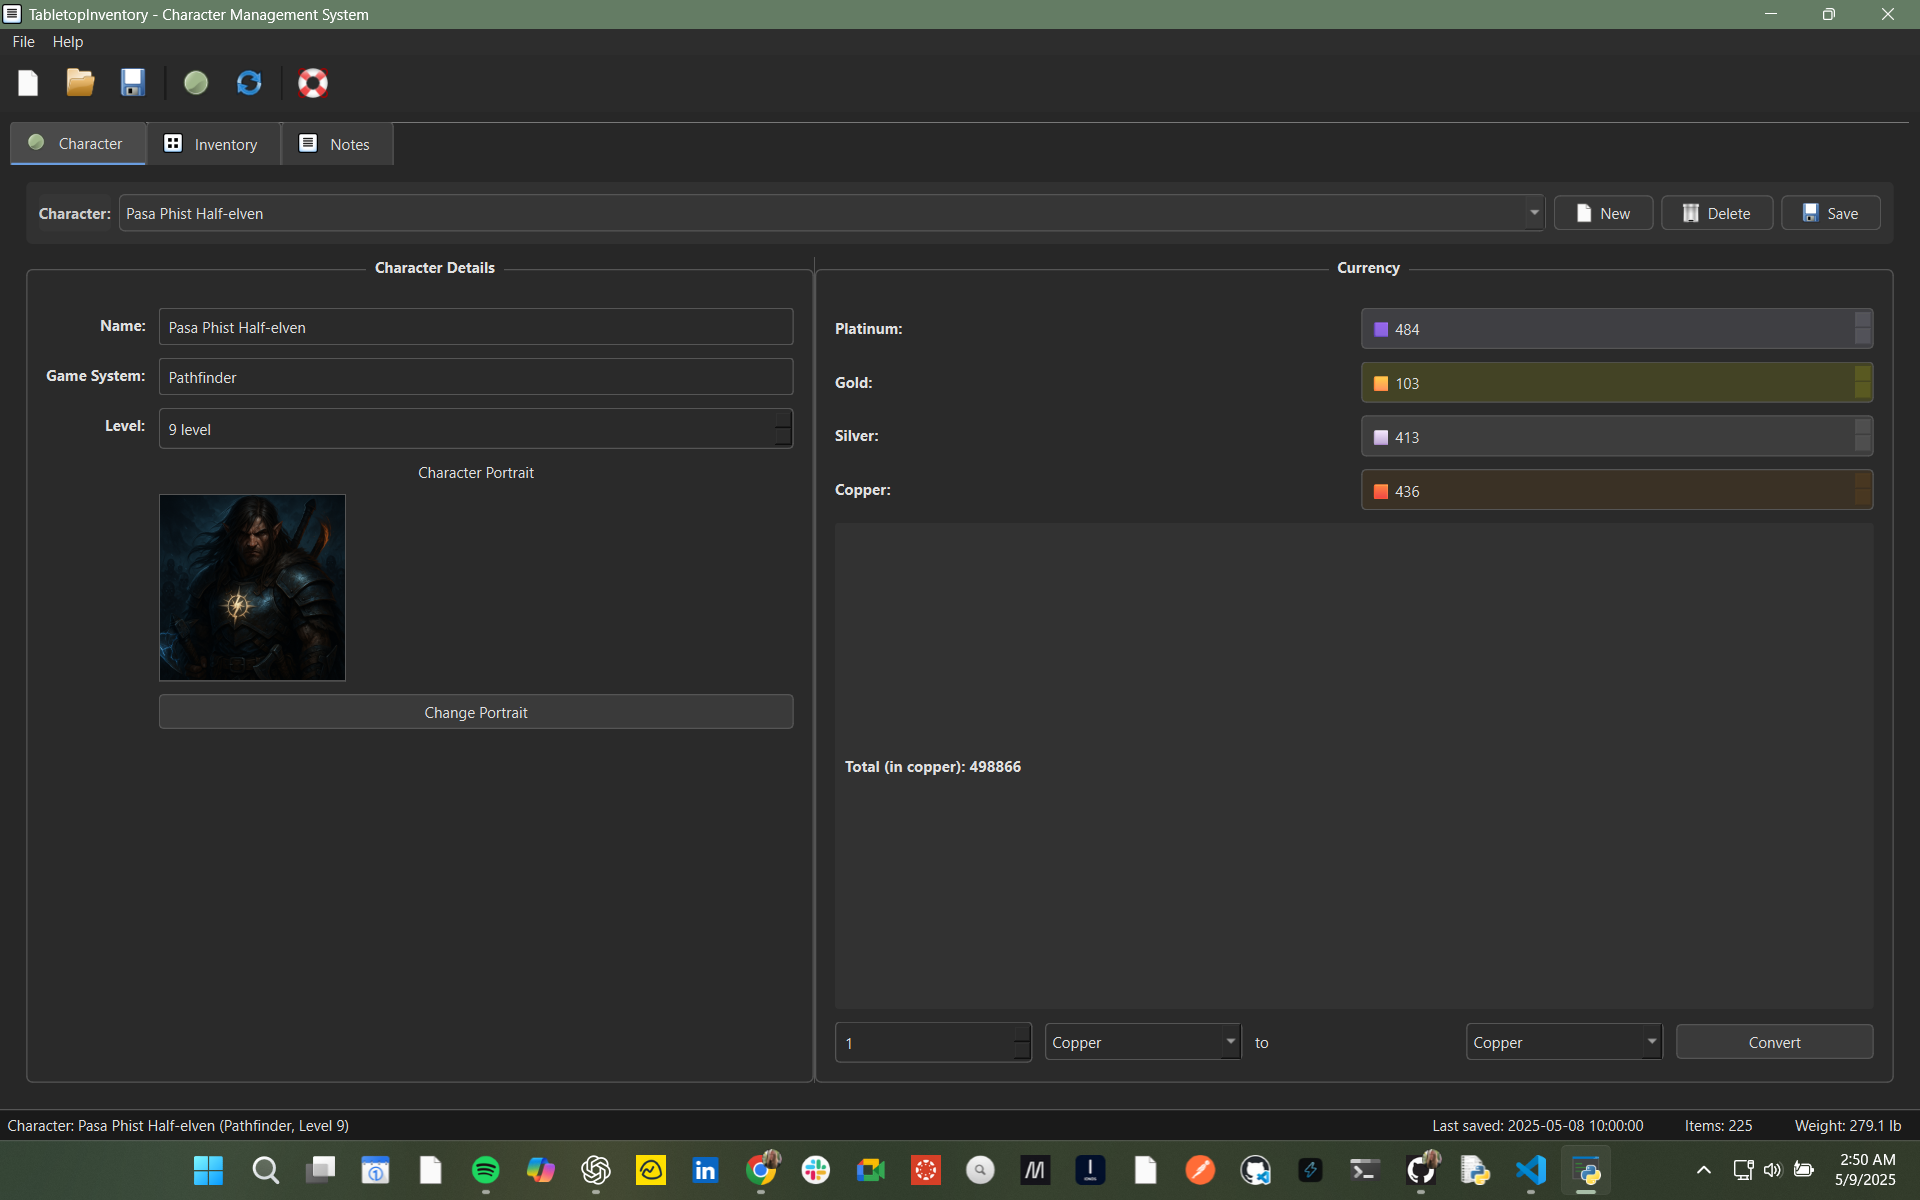
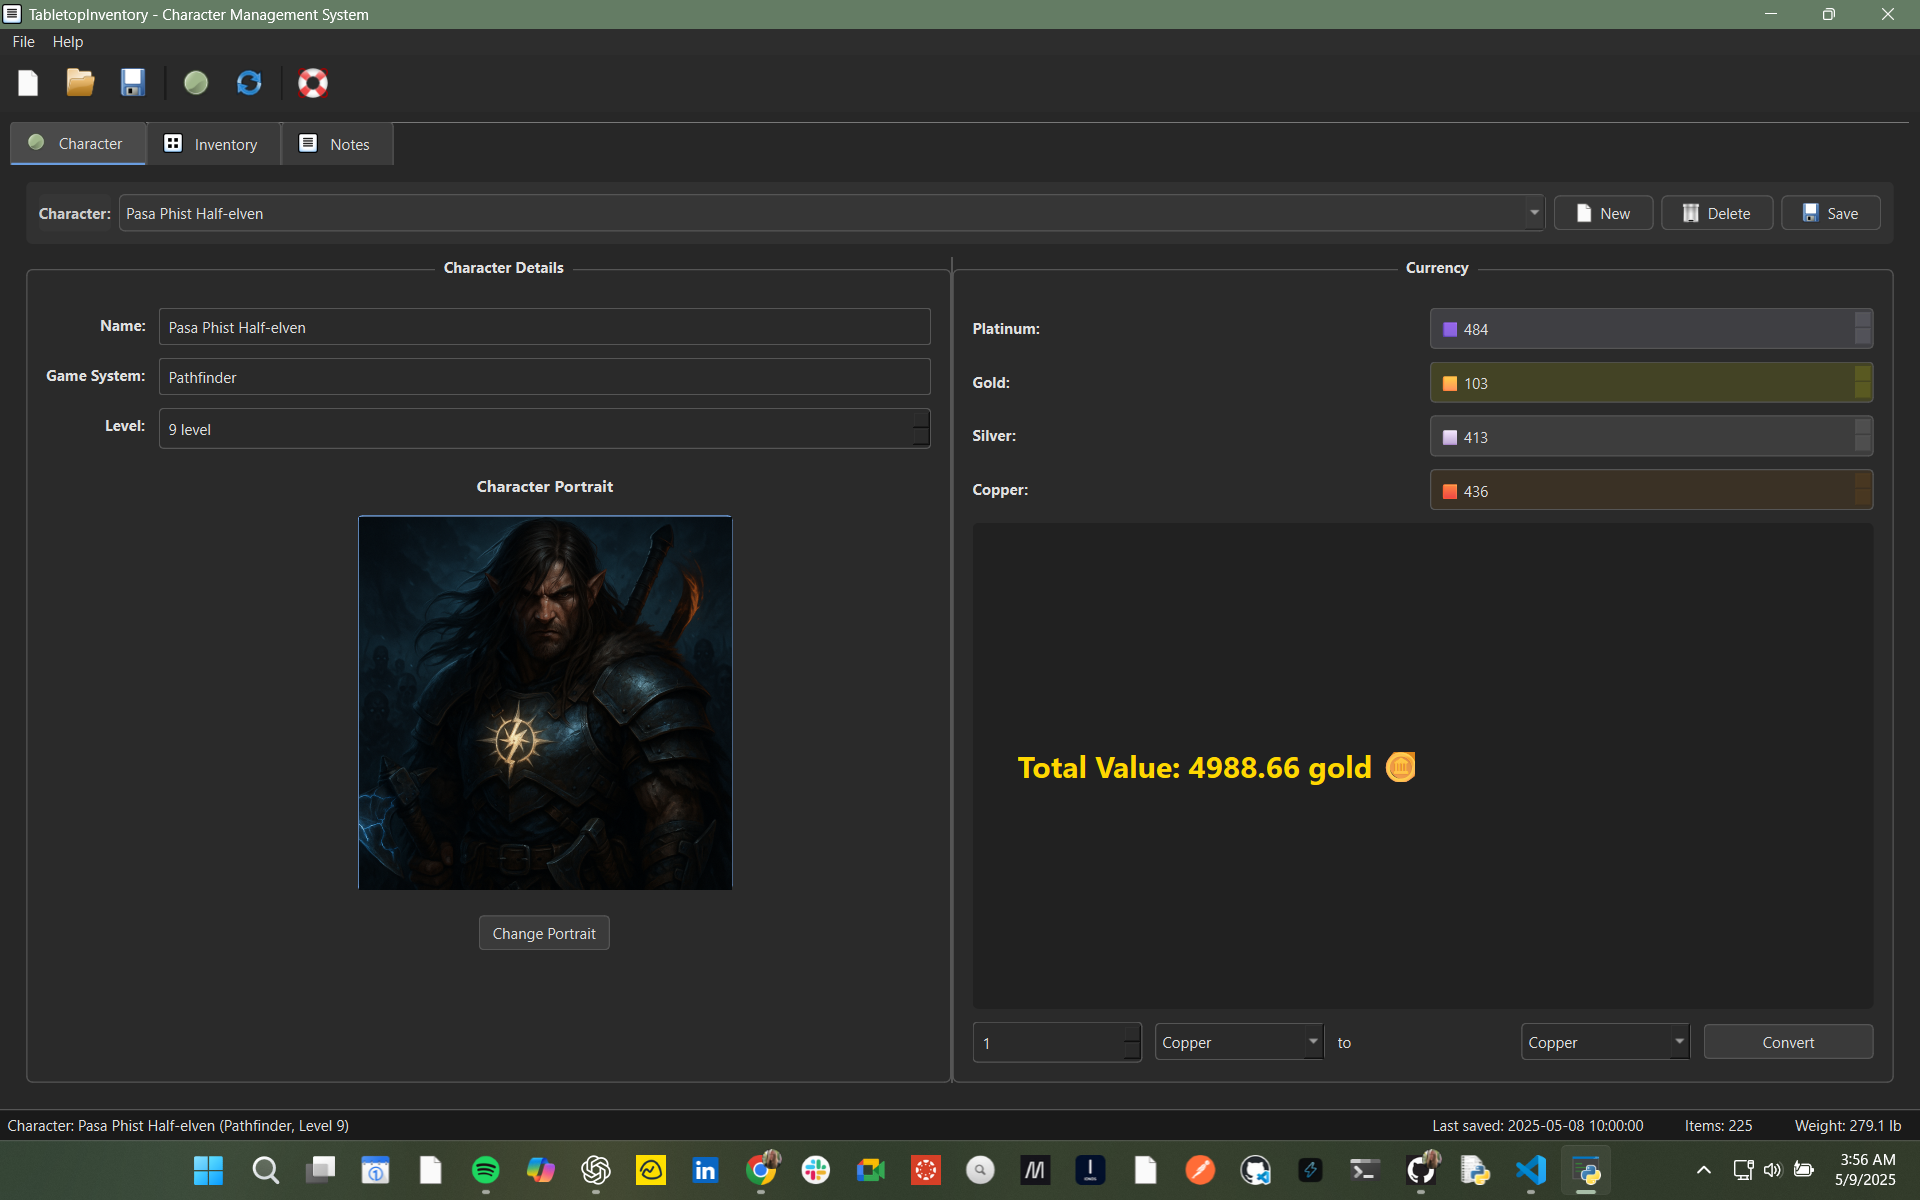
refactor currency display and update logic for better clarity and compatibility

diff --git a/tabletop_inventory.py b/tabletop_inventory.py
@@ -723,8 +723,7 @@ class MainWindow(QMainWindow):
         self.copper_spin.setRange(0, 999999)
         self.copper_spin.setStyleSheet("padding: 5px; background: rgba(180, 100, 0, 30);")
         self.copper_spin.setPrefix("🟧 ")
-        
-        # Add widgets to currency layout
+          # Add widgets to currency layout
         currency_layout.addWidget(QLabel("<b>Platinum:</b>"), 0, 0)
         currency_layout.addWidget(self.platinum_spin, 0, 1)
         currency_layout.addWidget(QLabel("<b>Gold:</b>"), 1, 0)
@@ -733,11 +732,12 @@ class MainWindow(QMainWindow):
         currency_layout.addWidget(self.silver_spin, 2, 1)
         currency_layout.addWidget(QLabel("<b>Copper:</b>"), 3, 0)
         currency_layout.addWidget(self.copper_spin, 3, 1)
-          # Add total currency value display with treasure background image
-        self.total_currency_label = QLabel("Total Coins: 0 🪙")
-        # Get the path to the Treasure.png image
+          # Add total currency value display with treasure background image        self.total_currency_label = QLabel("Total Value: 0.00 gold 🪙")
+        # Get the path to the Treasure.png image - ensure proper Windows path formatting
         treasure_img_path = os.path.join(os.path.dirname(os.path.abspath(__file__)), 'assets', 'img', 'Treasure.png')
-        # Set background image and increase font size for the total label
+        treasure_img_path = treasure_img_path.replace('\\', '/')  # Convert backslashes to forward slashes for CSS
+        
+        # Set background color and font size for the total label - removed unsupported properties
         self.total_currency_label.setStyleSheet(f"""
             font-weight: bold; 
             font-size: 18pt; 
@@ -745,13 +745,21 @@ class MainWindow(QMainWindow):
             color: #FFD700;
             background-color: rgba(30, 30, 30, 180); 
             border-radius: 5px;
-            background-image: url({treasure_img_path});
-            background-position: center right;
-            background-repeat: no-repeat;
-            background-origin: content;
-            background-size: contain;
-            text-shadow: 2px 2px 3px rgba(0, 0, 0, 0.7);
         """)
+        
+        # Use an icon instead of background image for better compatibility
+        treasure_icon = QPixmap(treasure_img_path)
+        if not treasure_icon.isNull():
+            # Create a layout for the label to include the icon
+            label_layout = QHBoxLayout(self.total_currency_label)
+            label_layout.setContentsMargins(20, 0, 20, 0)
+            label_layout.addStretch()
+            
+            # Add icon in a separate label
+            icon_label = QLabel()
+            icon_label.setPixmap(treasure_icon.scaled(50, 50, Qt.AspectRatioMode.KeepAspectRatio))
+            label_layout.addWidget(icon_label)
+        
         self.total_currency_label.setMinimumHeight(60)
         self.total_currency_label.setAlignment(Qt.AlignmentFlag.AlignVCenter | Qt.AlignmentFlag.AlignLeft)
         self.total_currency_label.setContentsMargins(20, 0, 20, 0)
@@ -1189,15 +1197,14 @@ class MainWindow(QMainWindow):
     def update_ui(self):
         """Update UI with current character data"""
         if not self.current_character:
-            # Clear UI
-            self.name_edit.setText("")
+            # Clear UI            self.name_edit.setText("")
             self.game_system_edit.setText("")
             self.level_spin.setValue(1)
             self.platinum_spin.setValue(0)
             self.gold_spin.setValue(0)
             self.silver_spin.setValue(0)
             self.copper_spin.setValue(0)
-            self.total_currency_label.setText("Total Gold: 0 🪙")
+            self.total_currency_label.setText("Total Value: 0.00 gold 🪙")
             self.notes_edit.clear()
             self.notes_preview.clear()
             self.inventory_table.setRowCount(0)
@@ -1222,14 +1229,15 @@ class MainWindow(QMainWindow):
         self.name_edit.setText(self.current_character.name)
         self.game_system_edit.setText(self.current_character.game_system)
         self.level_spin.setValue(self.current_character.level)
-        
-        # Update currency        self.platinum_spin.setValue(self.current_character.currency.platinum)
+          # Update currency        
+        self.platinum_spin.setValue(self.current_character.currency.platinum)
         self.gold_spin.setValue(self.current_character.currency.gold)
         self.silver_spin.setValue(self.current_character.currency.silver)
         self.copper_spin.setValue(self.current_character.currency.copper)
-        # Update total currency
+        # Update total currency - convert to gold (100 copper = 1 gold)
         total_copper = self.current_character.currency.total_in_copper()
-        self.total_currency_label.setText(f"Total Coins: {total_copper:,} 🪙")
+        total_gold = total_copper / 100
+        self.total_currency_label.setText(f"Total Value: {total_gold:.2f} gold 🪙")
         
         # Enable currency converter
         self.convert_button.setEnabled(True)
@@ -1402,14 +1410,15 @@ class MainWindow(QMainWindow):
         
         self.current_character.game_system = self.game_system_edit.text()
         self.current_character.level = self.level_spin.value()
-        
-        # Update currency
+          # Update currency
         self.current_character.currency.platinum = self.platinum_spin.value()
         self.current_character.currency.gold = self.gold_spin.value()
         self.current_character.currency.silver = self.silver_spin.value()
-        self.current_character.currency.copper = self.copper_spin.value()          # Update total currency display
+        self.current_character.currency.copper = self.copper_spin.value()          
+        # Update total currency display - convert to gold
         total_copper = self.current_character.currency.total_in_copper()
-        self.total_currency_label.setText(f"Total Coins: {total_copper:,} 🪙")
+        total_gold = total_copper / 100
+        self.total_currency_label.setText(f"Total Value: {total_gold:.2f} gold 🪙")
         
         # Update notes - now using QTextEdit instead of QLineEdit
         self.current_character.notes = self.notes_edit.toPlainText()
